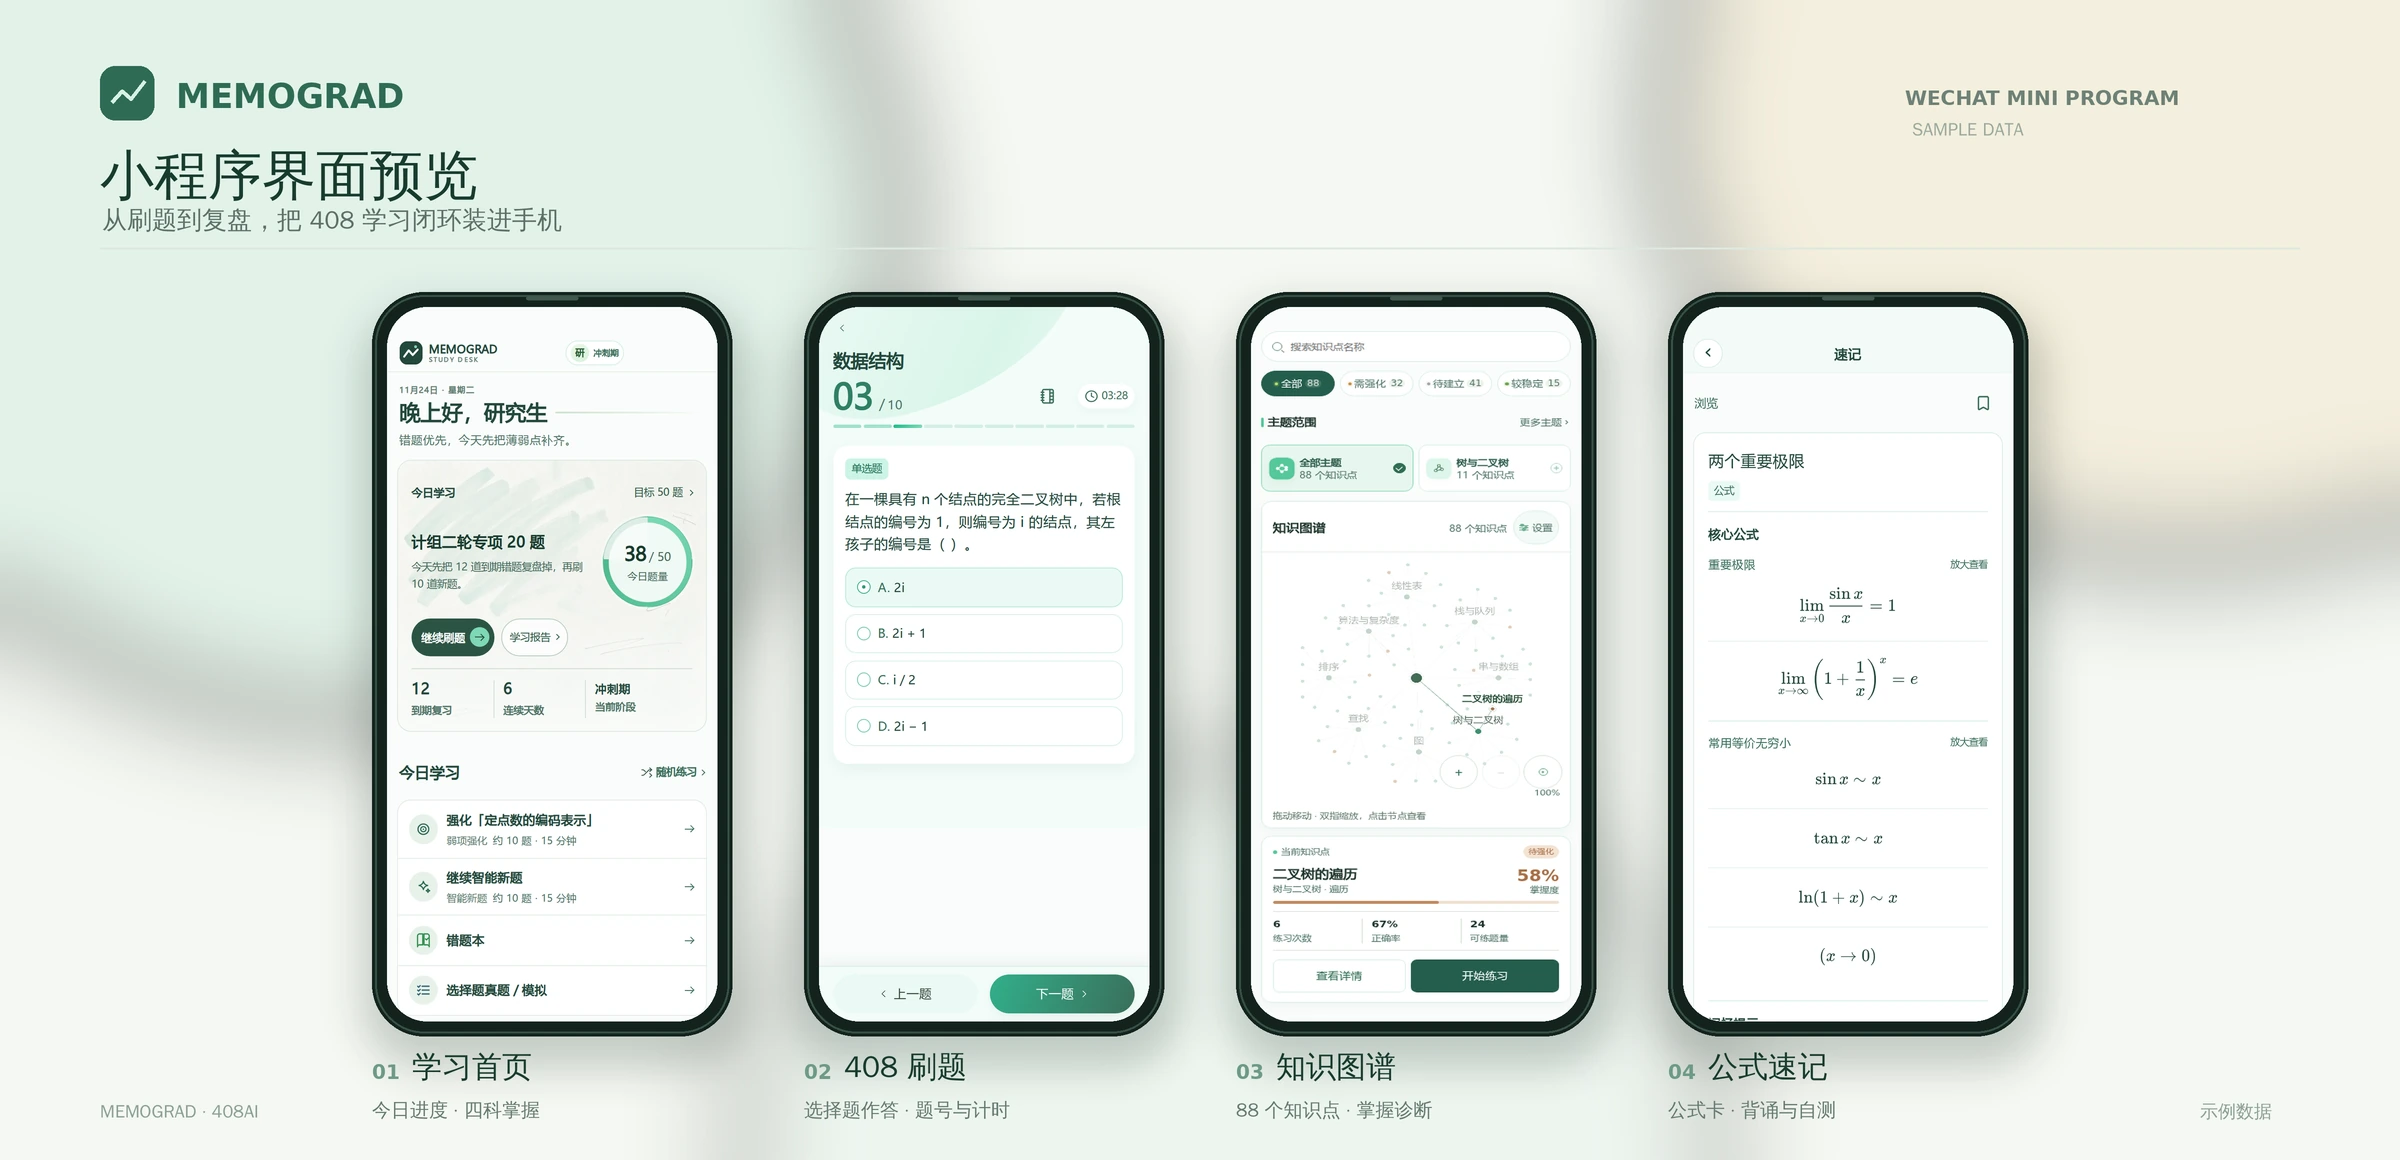
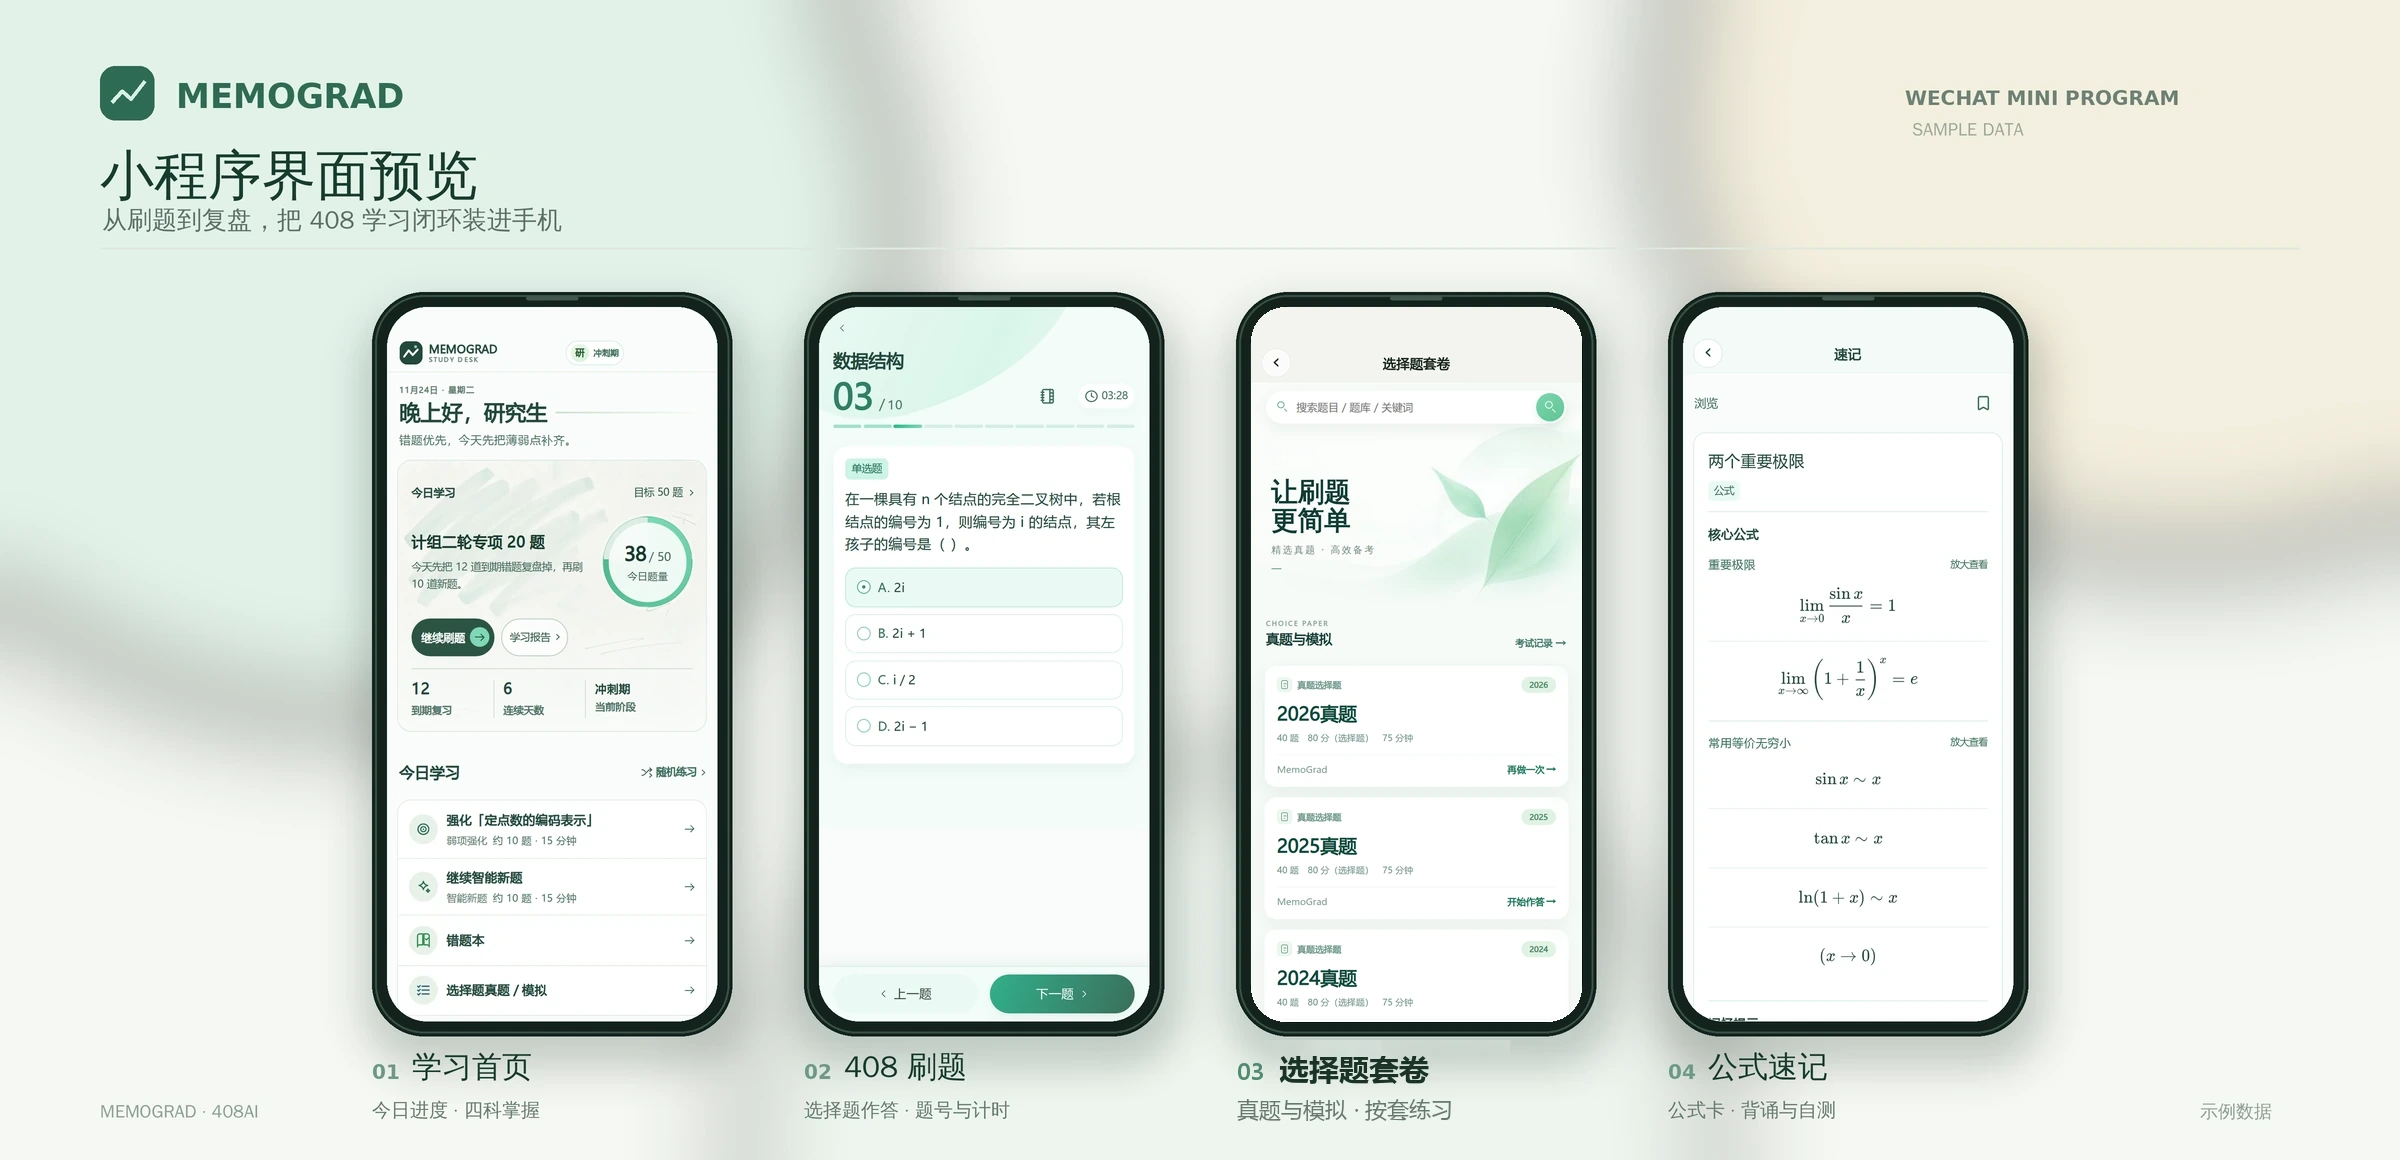
docs(readme): refresh Mini Program preview with paper list

diff --git a/README.en-US.md b/README.en-US.md
@@ -66,11 +66,11 @@ MemoGrad is a complete postgraduate-exam study platform that combines a WeChat M
 ## Product Preview
 
 <p align="center">
-  <img src="assets/miniprogram-preview.webp" alt="MemoGrad Mini Program preview: learning home, 408 practice question, knowledge graph, and formula review" width="100%" />
+  <img src="assets/miniprogram-preview.webp" alt="MemoGrad Mini Program preview: learning home, 408 practice question, choice-paper library, and formula review" width="100%" />
 </p>
 
 <p align="center">
-  <sub>WeChat Mini Program · Learning home, 408 practice, knowledge graph, and formula review (sample data)</sub>
+  <sub>WeChat Mini Program · Learning home, 408 practice, choice-paper library, and formula review (sample data)</sub>
 </p>
 
 <p align="center">
@@ -81,7 +81,7 @@ MemoGrad is a complete postgraduate-exam study platform that combines a WeChat M
   <sub>Admin console · Question operations, review queues, annual activity, AI usage, and system health in one view (sample data)</sub>
 </p>
 
-The Mini Program brings daily learning, 408 multiple-choice practice, knowledge-graph diagnosis, and formula review into one learning loop; the admin workspace combines user and question growth, pending review queues, annual 2D/3D activity distribution, AI usage quality, and runtime health so operators can quickly locate work that needs attention.
+The Mini Program brings daily learning, 408 multiple-choice practice, the choice-paper library, and formula review into one learning loop; the admin workspace combines user and question growth, pending review queues, annual 2D/3D activity distribution, AI usage quality, and runtime health so operators can quickly locate work that needs attention.
 
 ## Architecture
 
